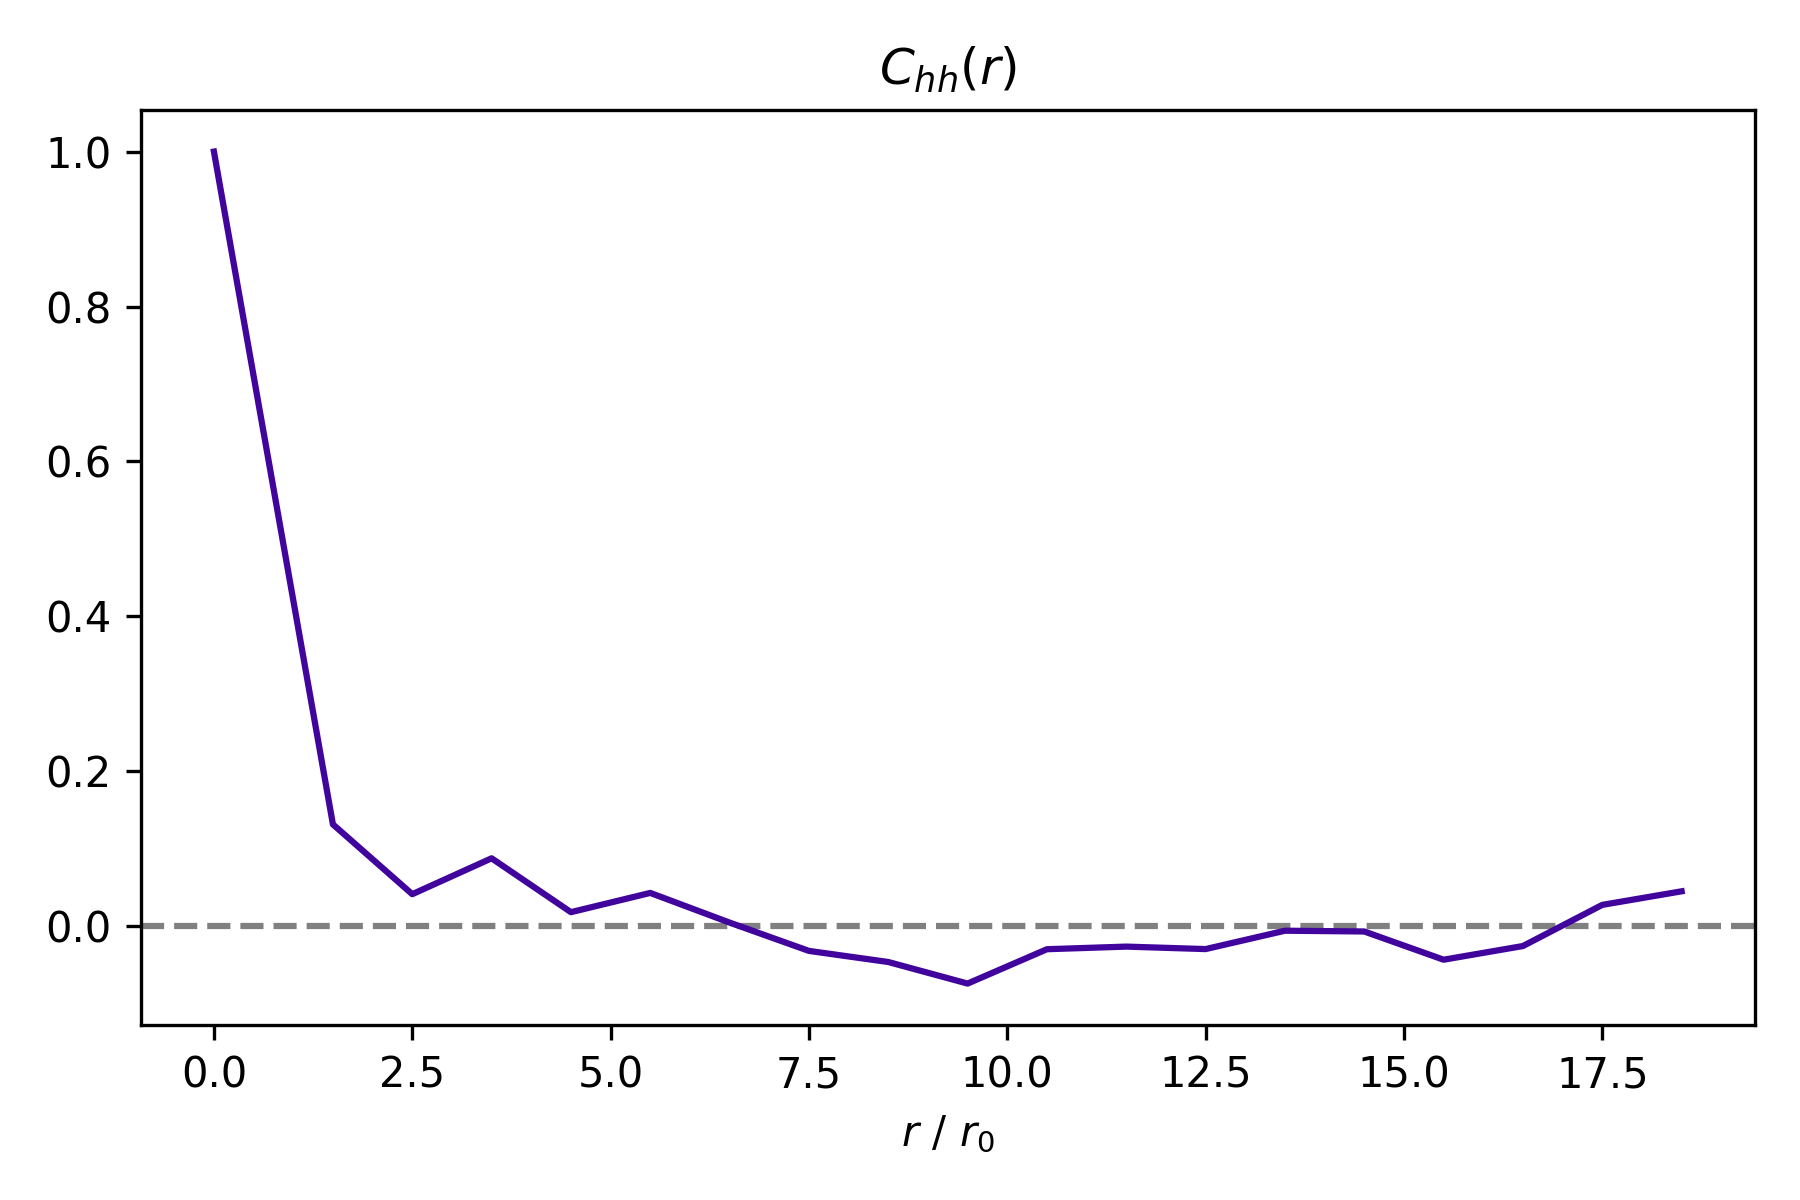
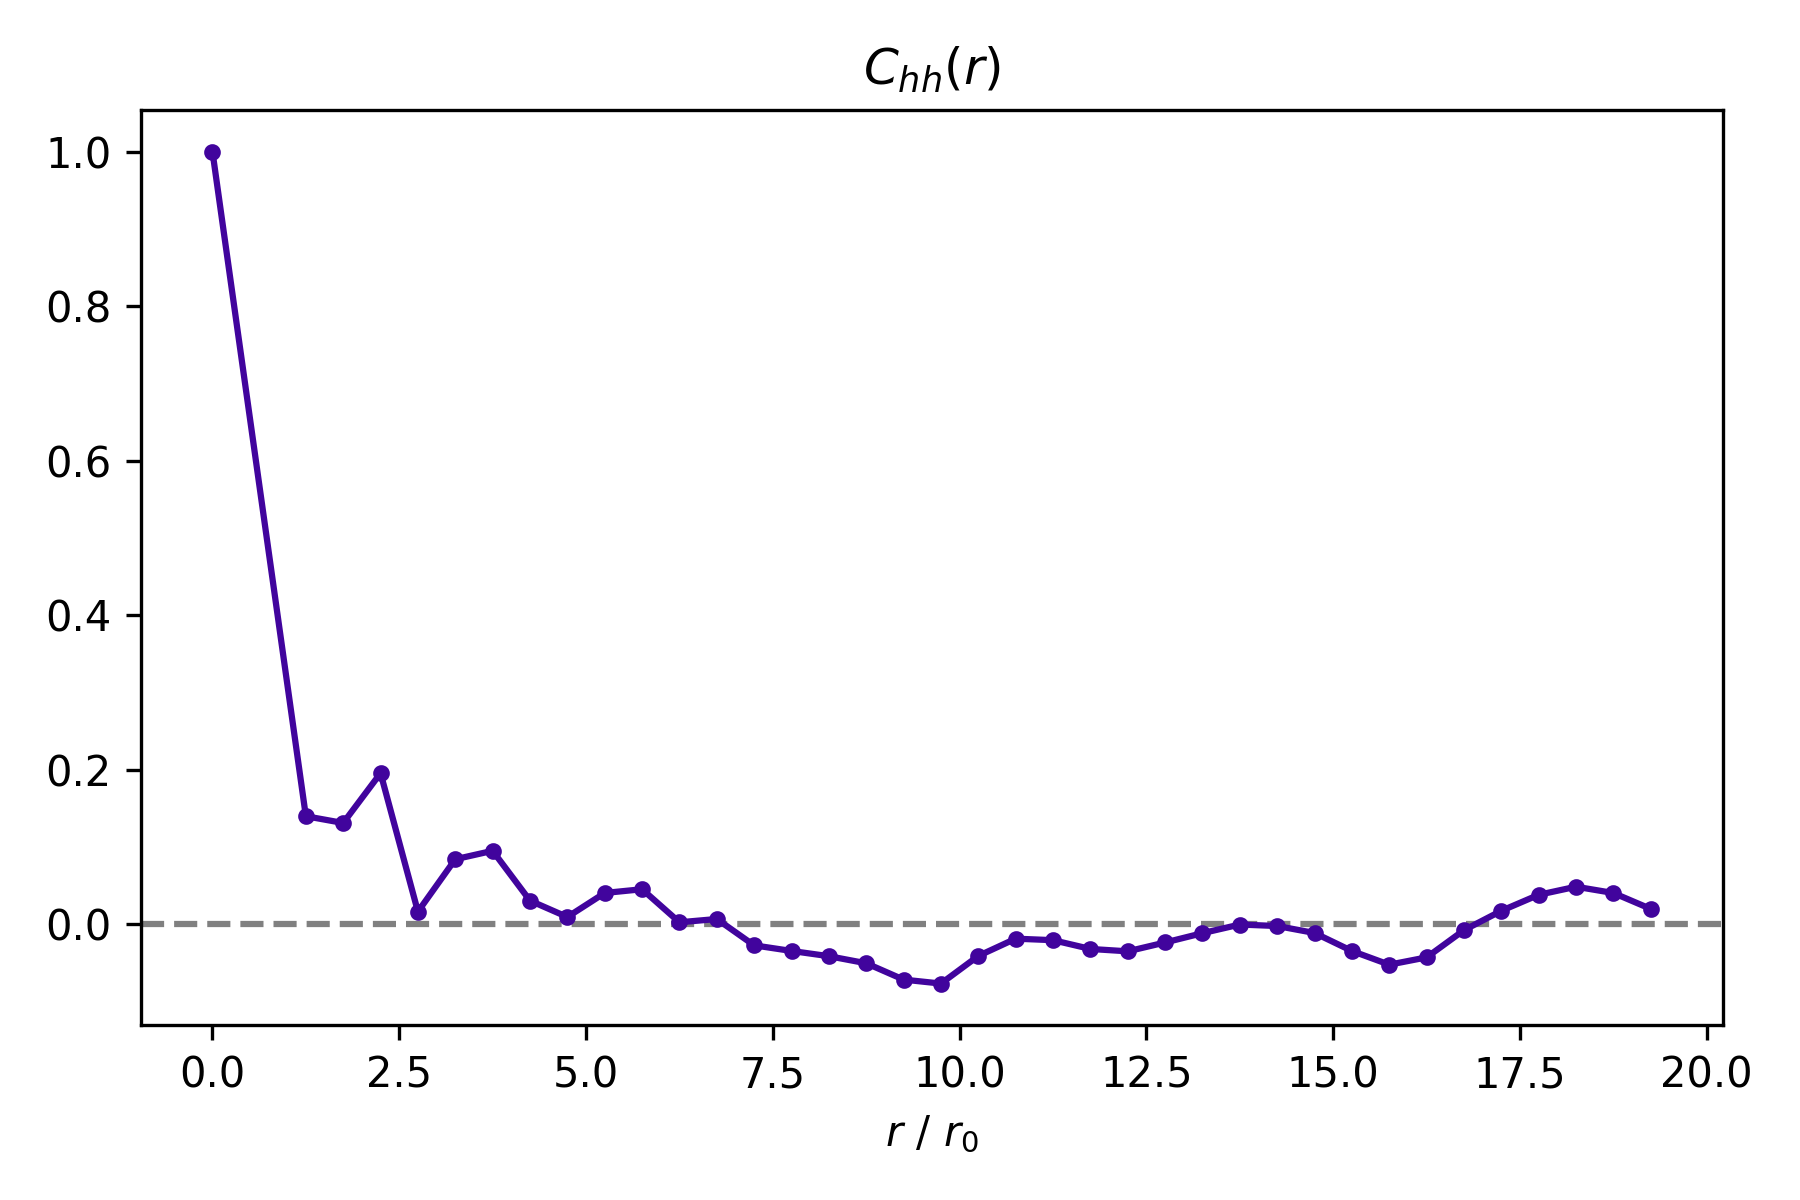
added '-' to plot

diff --git a/analysis/visualization/plot_correlations.py b/analysis/visualization/plot_correlations.py
@@ -137,6 +137,7 @@ def main():
             out_path = f"{fig_dir}{relative_parent}spatial_autocorrelation_{args.param}_{filename}.png"
 
             plt.plot(corr_obj.r_array[args.param], corr_obj.spatial[args.param],
+                     '-',
                      color=color,
                      label=label)
         
@@ -144,6 +145,7 @@ def main():
             out_path = f"{fig_dir}{relative_parent}temporal_autocorrelation_{args.param}_{filename}.png"
 
             plt.plot(corr_obj.t_array[args.param], corr_obj.temporal[args.param], 
+                     '-',
                      color=color, 
                      label=label)
         
